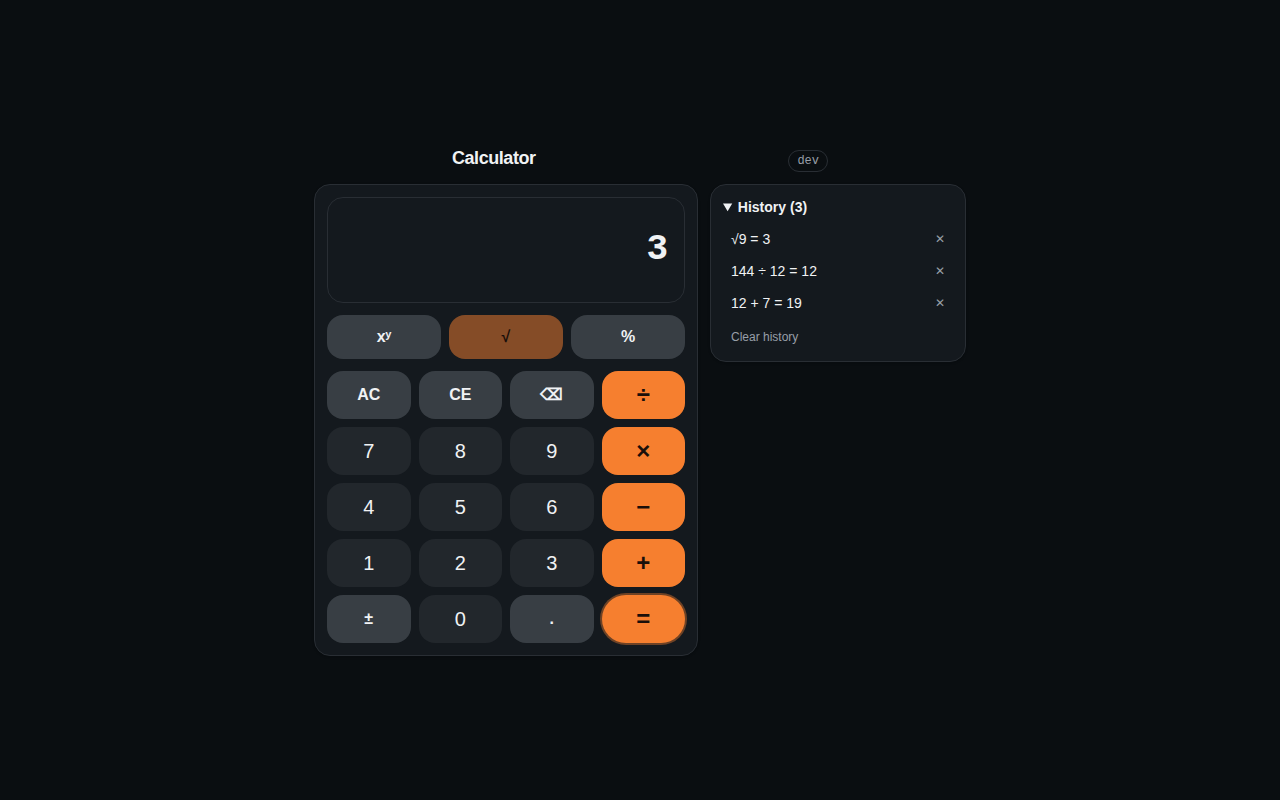
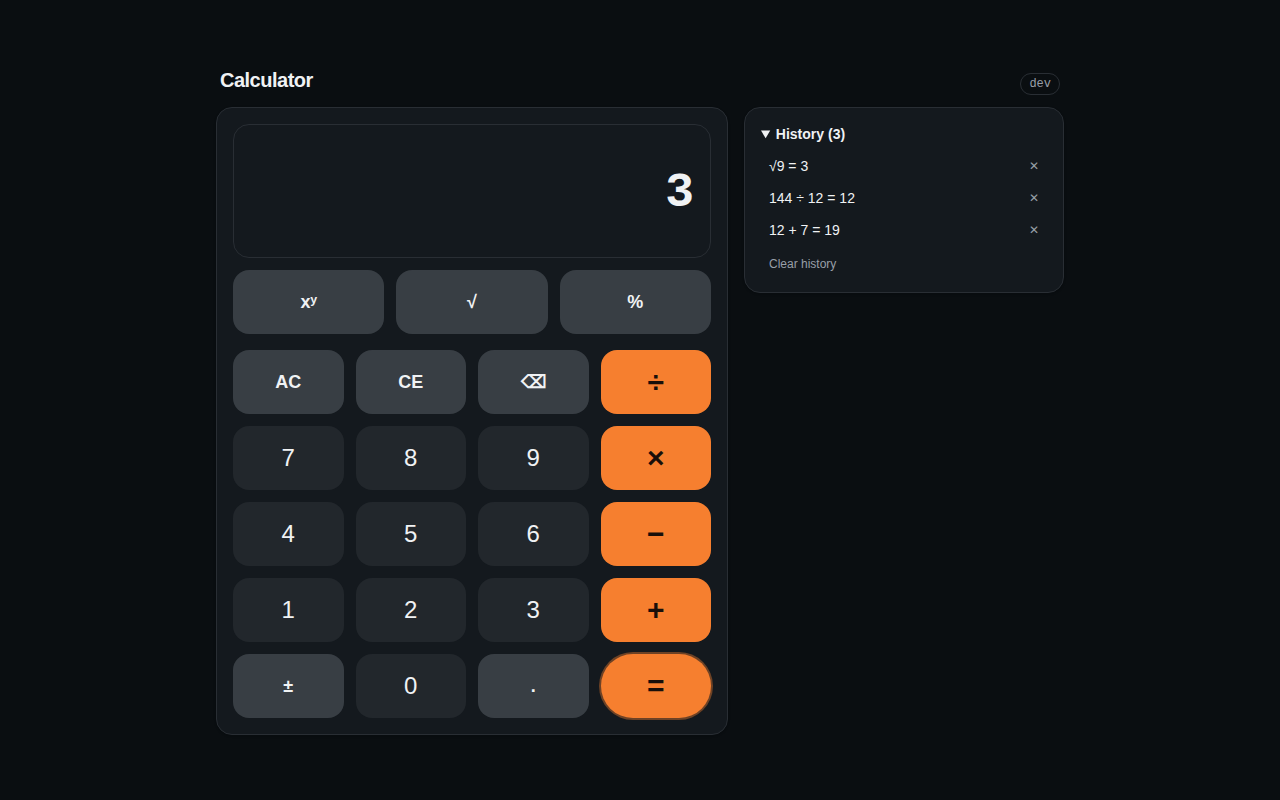
docs: document the Vercel deployment and refresh screenshots (#92)
Point the Overview at the live demo, describe the Git-integration flow
(PR -> preview, main -> production) and the two platform env vars, list
vercel.json and .vercelignore in the project structure, and regenerate
the four screenshots from the live site to show the larger layout.

Refs #91

diff --git a/README.md b/README.md
@@ -27,7 +27,8 @@ percentage ([ADR-0008](docs/adr/0008-frontend-evaluation-semantics.md)). The bac
 stable machine `code`, Prometheus metrics and a graceful shutdown, all described by an OpenAPI 3.1
 contract that the tests validate every handler response against. In production both run as distroless
 non-root containers behind one nginx that serves the app and proxies `/api/` over a private network, so
-the API has no host port at all.
+the API has no host port at all. The [live demo](https://go-react-calculator.vercel.app) runs the same two
+apps on Vercel with the same single-origin layout ([Deploy to Vercel](#4-deploy-to-vercel)).
 
 <p align="center">
   <img src="docs/screenshots/calculator-light-mobile.png" alt="The calculator on a 390×844 mobile viewport, light theme, with three calculations in the history panel" width="320">
@@ -127,11 +128,23 @@ origin and the ADR-0009 model holds: no CORS, and the operational endpoints (`/m
 `/version`) are not public. The security headers in `frontend/nginx/security-headers.conf` are repeated
 in `vercel.json` for every non-API path.
 
+The project is connected to this repository through Vercel's Git integration, so no deploy step is needed:
+
+| Event | Result |
+|---|---|
+| Push to a pull-request branch | Preview deployment with its own URL, reported as the `Vercel` check on the PR |
+| Merge to `main` | Production deployment at https://go-react-calculator.vercel.app |
+
+Two settings live in the Vercel project instead of the repository, because they describe the platform
+rather than the app: `TRUST_PROXY_HEADERS=true`, so the rate limiter keys on the client address that
+Vercel's edge puts in `X-Forwarded-For` instead of the edge's own, and `LOG_FORMAT=json`. To set up a new
+project or deploy by hand:
+
 ```sh
 vercel link --project go-react-calculator
-vercel env add TRUST_PROXY_HEADERS production   # "true": Vercel's edge sets X-Forwarded-For
+vercel env add TRUST_PROXY_HEADERS production   # "true"
 vercel env add LOG_FORMAT production            # "json"
-vercel deploy --prod
+vercel deploy --prod                            # or `vercel deploy` for a preview
 ```
 
 ## API
@@ -387,6 +400,8 @@ go-react-calculator/
 ├── .github/workflows/        backend · frontend · stack · security
 ├── compose.yaml              the whole product: nginx :8080 → Go :8081, private
 ├── compose.e2e.yaml          overlay raising the rate limit for the Playwright run
+├── vercel.json               Vercel Services: Vite SPA + backend container, /api/* → backend
+├── .vercelignore             keeps build output, coverage and e2e out of the Vercel upload
 ├── Makefile                  umbrella targets: dev · check · test · up · down · smoke · e2e
 ├── CLAUDE.md                 session bootstrap for the AI-assisted workflow
 └── SECURITY.md               threat model summary and disclosure policy

diff --git a/docs/PROMPTS.md b/docs/PROMPTS.md
@@ -1618,3 +1618,26 @@ state rather than authored content needing hand-correction beyond wording.
   is out of this issue's scope.
 
 **Written by hand** — none.
+
+## Session FU-14 — 2026-09-23
+
+**Prompts**
+- "pr ı merge et ve deploy et"
+- "daha sonra projenin read me dosyasını güncelle."
+
+**Accepted**
+- Merging #88 (all checks green) before #90. #90's only red check was the Vercel preview, which failed
+  because its branch predated `vercel.json`. Merging `main` into the branch (no force-push) resolved the
+  `docs/PROMPTS.md` append conflict and turned that check green before the merge.
+- No manual `vercel deploy --prod`: the merge of #90 triggered a production deployment through the Git
+  integration. The live site was then measured with Playwright at five viewports and matched the local
+  figures from #90.
+- README: live-demo pointer in the Overview, the Git-integration table in "4. Deploy to Vercel", and
+  `vercel.json` / `.vercelignore` in the project structure. The four screenshots were regenerated from
+  the live site with the same viewports (390×844 @2x, 1280×800 @1x) and the same three calculations.
+
+**Rejected**
+- Setting `VITE_APP_VERSION` on Vercel so the badge stops reading `dev`: that is a deployment change, not
+  a README one. Left for a follow-up.
+
+**Written by hand** — none.
